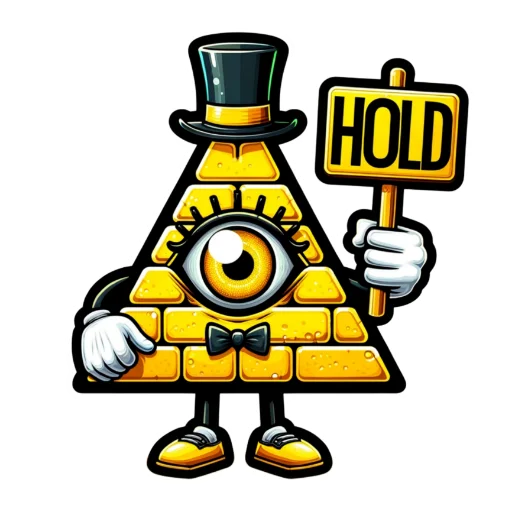
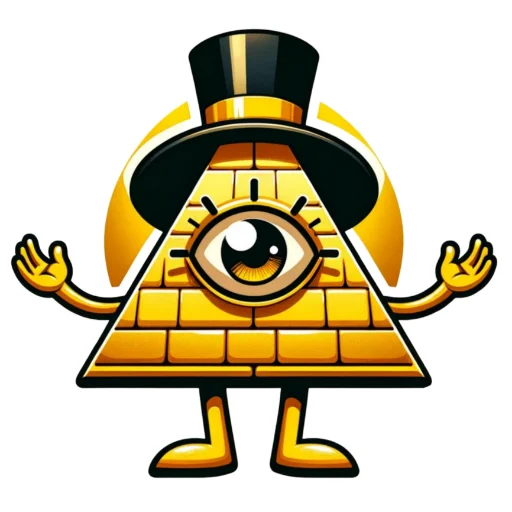
updated docs and presale page

diff --git a/src/pages/Presale.jsx b/src/pages/Presale.jsx
@@ -1,122 +1,14 @@
-import React, { useState, useEffect } from "react";
-import { toReadableAmount } from "utils/customHelpers";
+import React, { useState } from "react";
 import SaleComponent from "components/SaleComponent";
-import useRefresh from "hooks/useRefresh";
-import PresaleForkABI from "config/abis/presaleFork.json";
-import { getPresaleAddress } from "utils/addressHelpers";
-import multicall from "utils/multicall";
 import { CountDownComponent } from "../components/CountDown";
 
 export default function Presale() {
-  const preslaeContractAddress = getPresaleAddress();
-  const { fastRefresh } = useRefresh();
-
   const [active, setActive] = useState(1);
-  const [presaleData, setPresaleData] = useState({});
   const [ended, setEnded] = useState(false);
 
-  useEffect(() => {
-    const fetchData = async () => {
-      const calls = [
-        {
-          address: preslaeContractAddress,
-          name: "enabled",
-          params: [],
-        },
-        {
-          address: preslaeContractAddress,
-          name: "sale_finalized",
-          params: [],
-        },
-        {
-          address: preslaeContractAddress,
-          name: "finishedTimestamp",
-          params: [],
-        },
-        {
-          address: preslaeContractAddress,
-          name: "total_deposited",
-          params: [],
-        },
-      ];
-
-      try {
-        const rawResults = await multicall(PresaleForkABI, calls);
-        rawResults.map((data, index) => {
-          const newData =
-            index <= 2
-              ? {
-                  [calls[index]["name"]]:
-                    index === 2 ? Number(data[0]) : data[0],
-                }
-              : {
-                  [calls[index]["name"]]: toReadableAmount(
-                    rawResults[index].toString(),
-                    18,
-                    6
-                  ),
-                };
-
-          setPresaleData((value) => ({ ...value, ...newData }));
-        });
-      } catch (e) {
-        console.log("Fetch Farms With Balance Error:", e);
-      }
-    };
-
-    fetchData();
-  }, []);
-
-  useEffect(() => {
-    const fetchData = async () => {
-      const calls = [
-        {
-          address: preslaeContractAddress,
-          name: "user_deposits",
-          params: [null],
-        },
-        {
-          address: preslaeContractAddress,
-          name: "WILDOwned",
-          params: [null],
-        },
-        {
-          address: preslaeContractAddress,
-          name: "user_withdraw_amount",
-          params: [null],
-        },
-        {
-          address: preslaeContractAddress,
-          name: "user_withdraw_timestamp",
-          params: [null],
-        },
-        {
-          address: preslaeContractAddress,
-          name: "getAmountToWithdraw",
-          params: [null],
-        },
-      ];
-
-      try {
-        const rawResults = await multicall(PresaleForkABI, calls);
-        rawResults.map((data, index) => {
-          const newData = {
-            [calls[index]["name"]]:
-              index === 3
-                ? Number(rawResults[index])
-                : toReadableAmount(rawResults[index].toString(), 18, 6),
-          };
-          setPresaleData((value) => ({ ...value, ...newData }));
-        });
-      } catch (e) {
-        console.log("Fetch Farms With Balance Error:", e);
-      }
-    };
-  }, []);
-
   return (
-    <div className="w-full container max-w-[500px] mx-3">
-      {!presaleData?.sale_finalized && !ended && (
+    <div className="w-full container flex flex-col justify-center items-center max-w-[500px] mx-3">
+      {!ended && (
         <>
           <p className="text-center text-3xl font-bold shadow-md shadow-black/50 py-3 bg-secondary/40 rounded-md mb-2 backdrop-blur-sm">
             $BILL SALE ENDS IN:
@@ -125,7 +17,7 @@ export default function Presale() {
         </>
       )}
 
-      <div className="tab_panel mx-auto">
+      <div className="tab_panel mx-auto w-full">
         <div
           className={`tab_button py-[2px!important]  ${
             active === 0
@@ -137,8 +29,8 @@ export default function Presale() {
           Presale $BILL
         </div>
       </div>
-      <div className="bg-secondary px-4 py-6 rounded-lg">
-        <SaleComponent saleData={presaleData} />
+      <div className="bg-secondary px-4 py-6 rounded-lg flex w-full justify-center">
+        <SaleComponent />
       </div>
       <img
         src="/assets/stickers/presale-left.webp"

diff --git a/src/layouts/Sidebar.jsx b/src/layouts/Sidebar.jsx
@@ -1,9 +1,27 @@
 import React, { useState } from "react";
 import Footer from "./Footer";
+import {
+  Modal,
+  ModalOverlay,
+  ModalContent,
+  ModalHeader,
+  ModalFooter,
+  ModalBody,
+  ModalCloseButton,
+} from "@chakra-ui/react";
+import { useDisclosure } from "@chakra-ui/react";
 
 export default function Sidebar({ toggle, handleToggle }) {
   const currentUrl = window.location.pathname;
   console.log(toggle);
+
+  const { isOpen, onOpen, onClose } = useDisclosure();
+
+  const handleClickDoc = (e) => {
+    e.preventDefault();
+    onOpen();
+  };
+
   return (
     <div
       className={` ${
@@ -185,10 +203,11 @@ export default function Sidebar({ toggle, handleToggle }) {
             </li>
             <li className="sidebar_item">
               <a
-                href="https://lodgedocs.gitbook.io/wildbase-farm/protocol/about-bwild"
+                href=""
                 target="_blank"
                 className="flex items-center p-2  text-xl text-white rounded-lg dark:text-white hover:bg-[#122142] dark:hover:bg-gray-700 group"
                 rel="noopener noreferrer"
+                onClick={(e) => handleClickDoc(e)}
               >
                 <svg
                   className="w-6 h-6  dark:text-white"
@@ -222,6 +241,25 @@ export default function Sidebar({ toggle, handleToggle }) {
           <Footer />
         </div>
       </aside>
+      <Modal isOpen={isOpen} onClose={onClose} motionPreset="slideInBottom">
+        <ModalOverlay />
+        <ModalContent>
+          <ModalHeader textAlign={"center"}>SOLBASE DOC</ModalHeader>
+          <ModalBody>
+            <div className="flex items-center justify-center flex-col p-2">
+              <img src="/assets/book.webp" className="my-5" alt="Docs" />
+              <a
+                href="https://lodgedocs.gitbook.io/wildbase-farm/protocol/about-bwild"
+                target="_blank"
+                className="flex items-center p-2  text-xl text-white rounded-lg hover:text-blue-700 dark:hover:bg-gray-700 group"
+                rel="noopener noreferrer"
+              >
+                <span className="ms-3 mb-8"> - READ FULL DOCS - </span>
+              </a>
+            </div>
+          </ModalBody>
+        </ModalContent>
+      </Modal>
     </div>
   );
 }

diff --git a/src/layouts/index.jsx b/src/layouts/index.jsx
@@ -17,13 +17,12 @@ export default function Layout({ children }) {
           {children}
         </div>
       </div>
-
-      {/* <div className="fixed top-[55%] left-[50%]  -translate-x-1/2 -translate-y-1/2  -z-20  rounded-full h-[50px] w-[50px] bg-symbol  blur-3xl"></div>
-      <div className="fixed top-[55%] left-[50%]  -translate-x-1/2 -translate-y-1/2  -z-20  rounded-full h-[100px] w-[100px] bg-symbol/60  blur-3xl"></div>
-      <div className="fixed top-[55%] left-[50%]  -translate-x-1/2 -translate-y-1/2  -z-20  rounded-full h-[200px] w-[200px] bg-symbol/50  blur-3xl"></div>
-      <div className="fixed top-[55%] left-[50%]  -translate-x-1/2 -translate-y-1/2  -z-20  rounded-full h-[400px] w-[400px] bg-symbol/30  blur-3xl"></div>
-      <div className="fixed top-[60%] left-[50%]  -translate-x-1/2 -translate-y-1/2  -z-20  rounded-full h-[1000px] w-[1000px] bg-symbol/10  blur-3xl"></div>
-      <div className="fixed top-[60%] left-[50%]  -translate-x-1/2 -translate-y-1/2  -z-20  rounded-full h-[1300px] w-[1300px] bg-symbol/5  blur-3xl"></div> */}
+      {/* {/* <div className="fixed top-[55%] left-[50%]  -translate-x-1/2 -translate-y-1/2  -z-20  rounded-full h-[50px] w-[50px] bg-symbol  blur-3xl"></div> */}
+      {/* <div className="fixed top-[55%] left-[50%]  -translate-x-1/2 -translate-y-1/2  -z-20  rounded-full h-[100px] w-[100px] bg-symbol/60  blur-3xl"></div> */}
+      {/* <div className="fixed top-[55%] left-[50%]  -translate-x-1/2 -translate-y-1/2  -z-20  rounded-full h-[200px] w-[200px] bg-symbol/50  blur-3xl"></div> */}
+      {/* <div className="fixed top-[55%] left-[50%]  -translate-x-1/2 -translate-y-1/2  -z-20  rounded-full h-[400px] w-[400px] bg-symbol/30  blur-3xl"></div> */}
+      <div className="fixed top-[60%] left-[50%]  -translate-x-1/2 -translate-y-1/2  -z-20  rounded-full h-[1700px] w-[1700px] bg-blue-500/10  blur-3xl"></div>
+      <div className="fixed top-[60%] left-[50%]  -translate-x-1/2 -translate-y-1/2  -z-20  rounded-full h-[1300px] w-[1300px] bg-black  blur-3xl"></div>
     </div>
   );
 }

diff --git a/src/components/SaleComponent.jsx b/src/components/SaleComponent.jsx
@@ -7,7 +7,7 @@ import { LAMPORTS_PER_SOL } from "@solana/web3.js";
 const presalePrice = 0.003;
 const recipientKey = "9v5wQgrEeMnWFqHWhottspa3GJKhKJ2pQx6SSYFM8XuV";
 
-export default function SaleComponent({ saleData }) {
+export default function SaleComponent() {
   const [amount, setAmount] = useState("");
   const [balance, setBalance] = useState("0");
   const [txSig, setTxSig] = useState("");
@@ -73,10 +73,13 @@ export default function SaleComponent({ saleData }) {
   };
 
   return (
-    <div>
+    <div className="flex w-full flex-col gap-2">
       <div className="balance_form">
         {/* <p className="text-center text-lg font-semibold">Presale is now until timer expires.</p> */}
         <div className="my-8">
+          <div className="flex justify-center items-center w-70 p-4">
+            <img src="/assets/presale.webp" alt="Presale" className="w-80" />
+          </div>
           <div className="flex justify-between mb-3 border-b border-symbolBorder px-1">
             <div> Presale Price:</div>
             <div>

diff --git a/src/Providers.js b/src/Providers.js
@@ -27,7 +27,7 @@ import { UmiProvider } from "utils/UmiProvider";
 import { ChakraProvider, extendTheme } from "@chakra-ui/react";
 
 const Providers = ({ children }) => {
-  let network = WalletAdapterNetwork.Devnet;
+  let network = WalletAdapterNetwork.Mainnet;
   if (
     process.env.REACT_PUBLIC_ENVIRONMENT === "mainnet-beta" ||
     process.env.REACT_PUBLIC_ENVIRONMENT === "mainnet"
@@ -36,6 +36,7 @@ const Providers = ({ children }) => {
   }
 
   const endpoint = useMemo(() => clusterApiUrl(network), [network]);
+  console.log(network);
 
   const wallets = useMemo(
     () => [

diff --git a/src/index.css b/src/index.css
@@ -133,6 +133,10 @@ body {
   background-color: #1221423f;
 }
 
+.chakra-modal__content {
+    @apply bg-secondary/90 !important;
+}
+
 @keyframes spin {
   from {
     transform: rotate(0deg);
